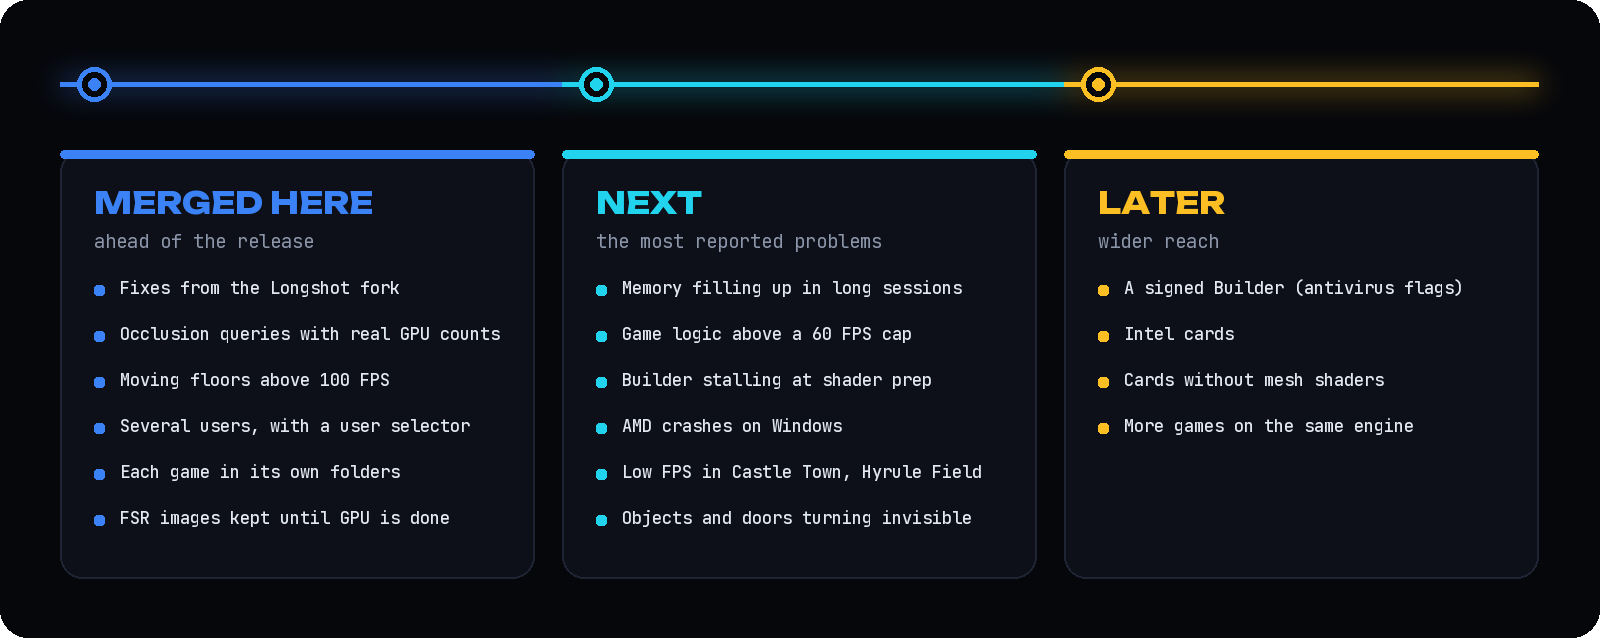
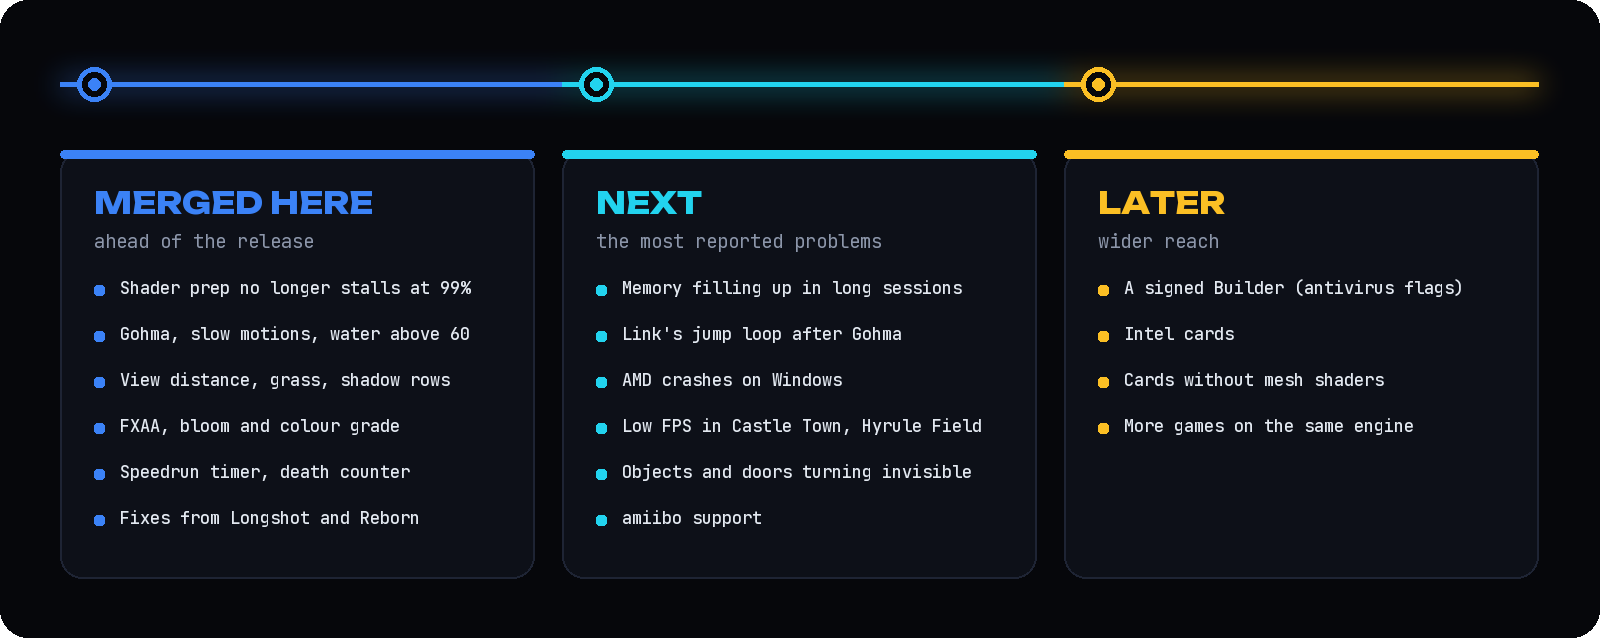
docs(readme): the roadmap moves what this round fixed to Merged here
The shader preparation stall, the above-60 fixes and Ocarina Reborn's rows are on main now; Link's jump loop after
Gohma and amiibo stay next.

diff --git a/scripts/make_roadmap.py b/scripts/make_roadmap.py
@@ -17,20 +17,20 @@ TEXT, MUTED = (226, 232, 240), (140, 150, 170)
 
 STAGES = [
     ("MERGED HERE", "ahead of the release", (59, 130, 246), [
-        "Fixes from the Longshot fork",
-        "Occlusion queries with real GPU counts",
-        "Moving floors above 100 FPS",
-        "Several users, with a user selector",
-        "Each game in its own folders",
-        "FSR images kept until GPU is done",
+        "Shader prep no longer stalls at 99%",
+        "Gohma, slow motions, water above 60",
+        "View distance, grass, shadow rows",
+        "FXAA, bloom and colour grade",
+        "Speedrun timer, death counter",
+        "Fixes from Longshot and Reborn",
     ]),
     ("NEXT", "the most reported problems", (34, 211, 238), [
         "Memory filling up in long sessions",
-        "Game logic above a 60 FPS cap",
-        "Builder stalling at shader prep",
+        "Link's jump loop after Gohma",
         "AMD crashes on Windows",
         "Low FPS in Castle Town, Hyrule Field",
         "Objects and doors turning invisible",
+        "amiibo support",
     ]),
     ("LATER", "wider reach", (251, 191, 36), [
         "A signed Builder (antivirus flags)",

diff --git a/readme.md b/readme.md
@@ -87,21 +87,22 @@ many players it reaches), so it changes as reports come in. Nothing here is a pr
   <tr>
     <td valign="top">
       <ul>
-        <li>Fixes from the Longshot fork, and occlusion queries answered with the GPU's real counts</li>
-        <li>A moving floor carries Link above 100 FPS as it does at 60</li>
-        <li>Several users with a user selector, and each game in its own game, work and save folders</li>
-        <li>Service sessions answered properly; a headless run ends on Ctrl+C again; a benchmark never leaves its game running</li>
-        <li>A cheaper texture upload path, and FSR's shared images kept until the GPU has finished with them</li>
+        <li>The Builder's "Preparing shaders" step no longer waits forever on a shader the driver never finishes, and closing the game while shaders build no longer counts as a failed start</li>
+        <li>Above a 60 FPS cap: Gohma steers instead of sticking to the walls, slow motions keep their length, and water, ice and sand keep moving</li>
+        <li>New Graphics rows from Ocarina Reborn: View distance, Grass and Shadow distance (memory locations by hotoni), FXAA, Bloom and Colour grade</li>
+        <li>New Gameplay rows: Classic counters, Speedrun timer and Death counter</li>
+        <li>Fixes from the Longshot fork, occlusion queries answered with the GPU's real counts, a moving floor that carries Link above 100 FPS, the water's per-light shadow maps (YakuzaFanA), and a log deadlock fixed</li>
+        <li>Several users with a user selector, each game in its own folders, and the task + mesh fallback for the RX 6600, 6650 XT and 6500 XT</li>
       </ul>
     </td>
     <td valign="top">
       <ul>
         <li>Memory that fills up over a long session until the game slows or stops: the most reported problem</li>
-        <li>Game logic that misbehaves above a 60 FPS cap (the Scarecrow's Song, looping animations in dialogue)</li>
-        <li>The Builder stalling at "Preparing shaders"</li>
+        <li>Link looping a jump animation in dialogue after Gohma above a 60 FPS cap (the Scarecrow's Song is fixed)</li>
         <li>Crashes and lost devices on AMD cards on Windows</li>
         <li>Low frame rates with an idle GPU in Castle Town and Hyrule Field; stutter on camera turns in Kokiri Forest</li>
         <li>Objects, walls and doors that turn invisible</li>
+        <li>amiibo, from Ocarina Reborn</li>
       </ul>
     </td>
     <td valign="top">
